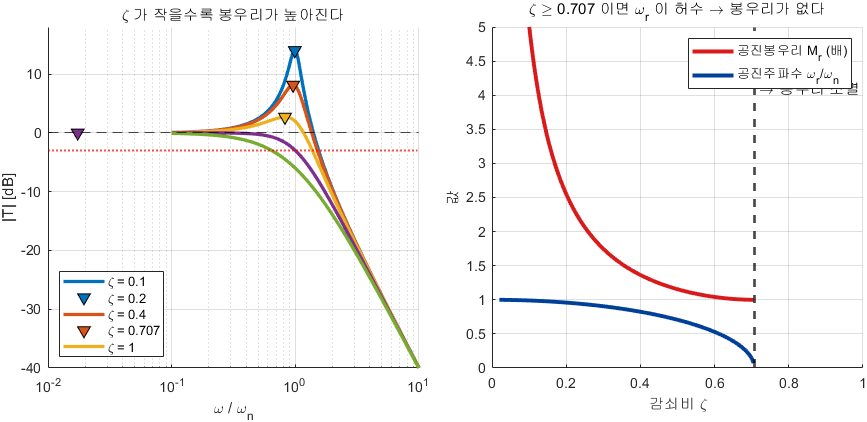
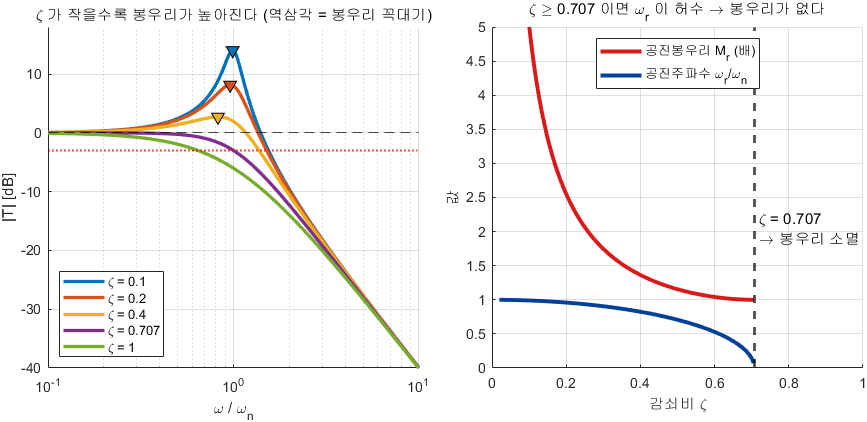
공통 함수 갱신 (파일 4 개)
비공개 저장소 Control-System-Design 94cdcd3 의 2026_실습 을 옮김 (파일 4 개 변경).

diff --git a/make_figures.m b/make_figures.m
@@ -6241,19 +6241,21 @@ for k = 1:2
     yline(0, 'k--', 'LineWidth', 1.3);
     yline(-3, 'r:', 'LineWidth', 1.6);
     [~, ~, ~, wc] = margin(L);  wb = bandwidth(T);
-    plot(wc, 0,  'ko', 'MarkerFaceColor', [1 0.85 0.2], 'MarkerSize', 10);
-    plot(wb, -3, 'ks', 'MarkerFaceColor', [0.95 0.5 0.3], 'MarkerSize', 10);
     xlabel('주파수 [rad s^{-1}]'); ylabel('크기 [dB]');
-    ylim([-90 70]);
+    ylim([-90 70]); xlim([1e-2 1e2]);
     if k == 1
+        plot(wc, 0,  'ko', 'MarkerFaceColor', [1 0.85 0.2], 'MarkerSize', 10);
+        plot(wb, -3, 'ks', 'MarkerFaceColor', [0.95 0.5 0.3], 'MarkerSize', 10);
         legend({'|L| 개루프', '|T| 폐루프', '0 dB', '-3 dB'}, ...
                'Location', 'southwest', 'FontSize', 9);
         title(sprintf('K = 1 : \\omega_c = %.2f,  \\omega_{BW} = %.2f  (비 %.2f)', wc, wb, wb/wc));
     else
-        text(0.02, 50, '|L| 이 어디서나 1 보다 훨씬 작다', 'FontSize', 10.5, 'Color', [0.7 0.35 0]);
-        text(0.02, 40, '\rightarrow 두 곡선이 완전히 겹친다 (T \approx L)', ...
+        text(0.013, 54, '|L| 이 어디서나 1 보다 훨씬 작다', 'FontSize', 10.5, 'Color', [0.7 0.35 0]);
+        text(0.013, 42, '\rightarrow 두 곡선이 완전히 겹친다 (T \approx L)', ...
              'FontSize', 10.5, 'Color', [0.7 0.35 0]);
-        title(sprintf('K = 0.001 : \\omega_c = %.3f,  \\omega_{BW} = %.3f', wc, wb));
+        text(0.013, 30, sprintf('\\omega_c = %.4f,  \\omega_{BW} = %.4f  (화면 왼쪽 밖)', wc, wb), ...
+             'FontSize', 10, 'Color', [0.4 0.4 0.4]);
+        title('K = 0.001 : 개루프와 폐루프가 구별되지 않는다');
     end
 end
 end
@@ -6268,10 +6270,12 @@ nexttile; hold on; grid on; set(gca, 'XScale', 'log');
 zs  = [0.1 0.2 0.4 0.707 1.0];
 wn  = 1;  wr = logspace(-1, 1, 900);
 cmap = lines(numel(zs));
+hL = gobjects(1, numel(zs));
 for i = 1:numel(zs)
     z = zs(i);
     Tz = tf(wn^2, [1 2*z*wn wn^2]);
-    plot(wr, 20*log10(squeeze(abs(freqresp(Tz, wr)))), 'LineWidth', 2.4, 'Color', cmap(i,:));
+    hL(i) = plot(wr, 20*log10(squeeze(abs(freqresp(Tz, wr)))), ...
+                 'LineWidth', 2.4, 'Color', cmap(i,:));
     if z < 1/sqrt(2)
         wpk = wn*sqrt(1 - 2*z^2);
         Mpk = 20*log10(1/(2*z*sqrt(1-z^2)));
@@ -6279,11 +6283,11 @@ for i = 1:numel(zs)
     end
 end
 yline(0, 'k--'); yline(-3, 'r:', 'LineWidth', 1.5);
-ylim([-40 18]);
+ylim([-40 18]); xlim([wr(1) wr(end)]);
 xlabel('\omega / \omega_n'); ylabel('|T| [dB]');
-legend(arrayfun(@(z) sprintf('\\zeta = %.3g', z), zs, 'UniformOutput', false), ...
+legend(hL, arrayfun(@(z) sprintf('\\zeta = %.3g', z), zs, 'UniformOutput', false), ...
        'Location', 'southwest', 'FontSize', 9);
-title('\zeta 가 작을수록 봉우리가 높아진다');
+title('\zeta 가 작을수록 봉우리가 높아진다 (역삼각 = 봉우리 꼭대기)');
 
 nexttile; hold on; grid on;
 zz = linspace(0.02, 1.0, 400);
@@ -6295,11 +6299,11 @@ plot(zz, Mr,  'LineWidth', 2.8, 'Color', [0.85 0.10 0.10]);
 plot(zz, wrr, 'LineWidth', 2.8, 'Color', [0 0.25 0.6]);
 xline(1/sqrt(2), 'k--', 'LineWidth', 2);
 ylim([0 5]); xlim([0 1]);
-text(0.72, 4.5, '\zeta = 0.707', 'FontSize', 11);
-text(0.72, 4.1, '\rightarrow 봉우리 소멸', 'FontSize', 11);
+text(0.72, 2.2, '\zeta = 0.707', 'FontSize', 11);
+text(0.72, 1.9, '\rightarrow 봉우리 소멸', 'FontSize', 11);
 xlabel('감쇠비 \zeta'); ylabel('값');
 legend({'공진봉우리 M_r (배)', '공진주파수 \omega_r/\omega_n'}, ...
-       'Location', 'northeast', 'FontSize', 9.5);
+       'Location', 'north', 'FontSize', 9.5);
 title('\zeta \geq 0.707 이면 \omega_r 이 허수 \rightarrow 봉우리가 없다');
 end
 
@@ -6475,7 +6479,7 @@ for i = 1:3
 end
 b = bar([gmv; pmv]', 'grouped');
 b(1).FaceColor = [0 0.35 0.65];  b(2).FaceColor = [0.93 0.69 0.13];
-set(gca, 'XTickLabel', {'K = 0.7', 'K = 1', 'K = 1.2'});
+set(gca, 'XTick', 1:3, 'XTickLabel', {'K = 0.7', 'K = 1', 'K = 1.2'});
 ylabel('여유'); ylim([0 80]);
 for i = 1:3
     text(i-0.26, gmv(i)+3, sprintf('%.1f', gmv(i)), 'FontSize', 9.5, 'HorizontalAlignment','center');
